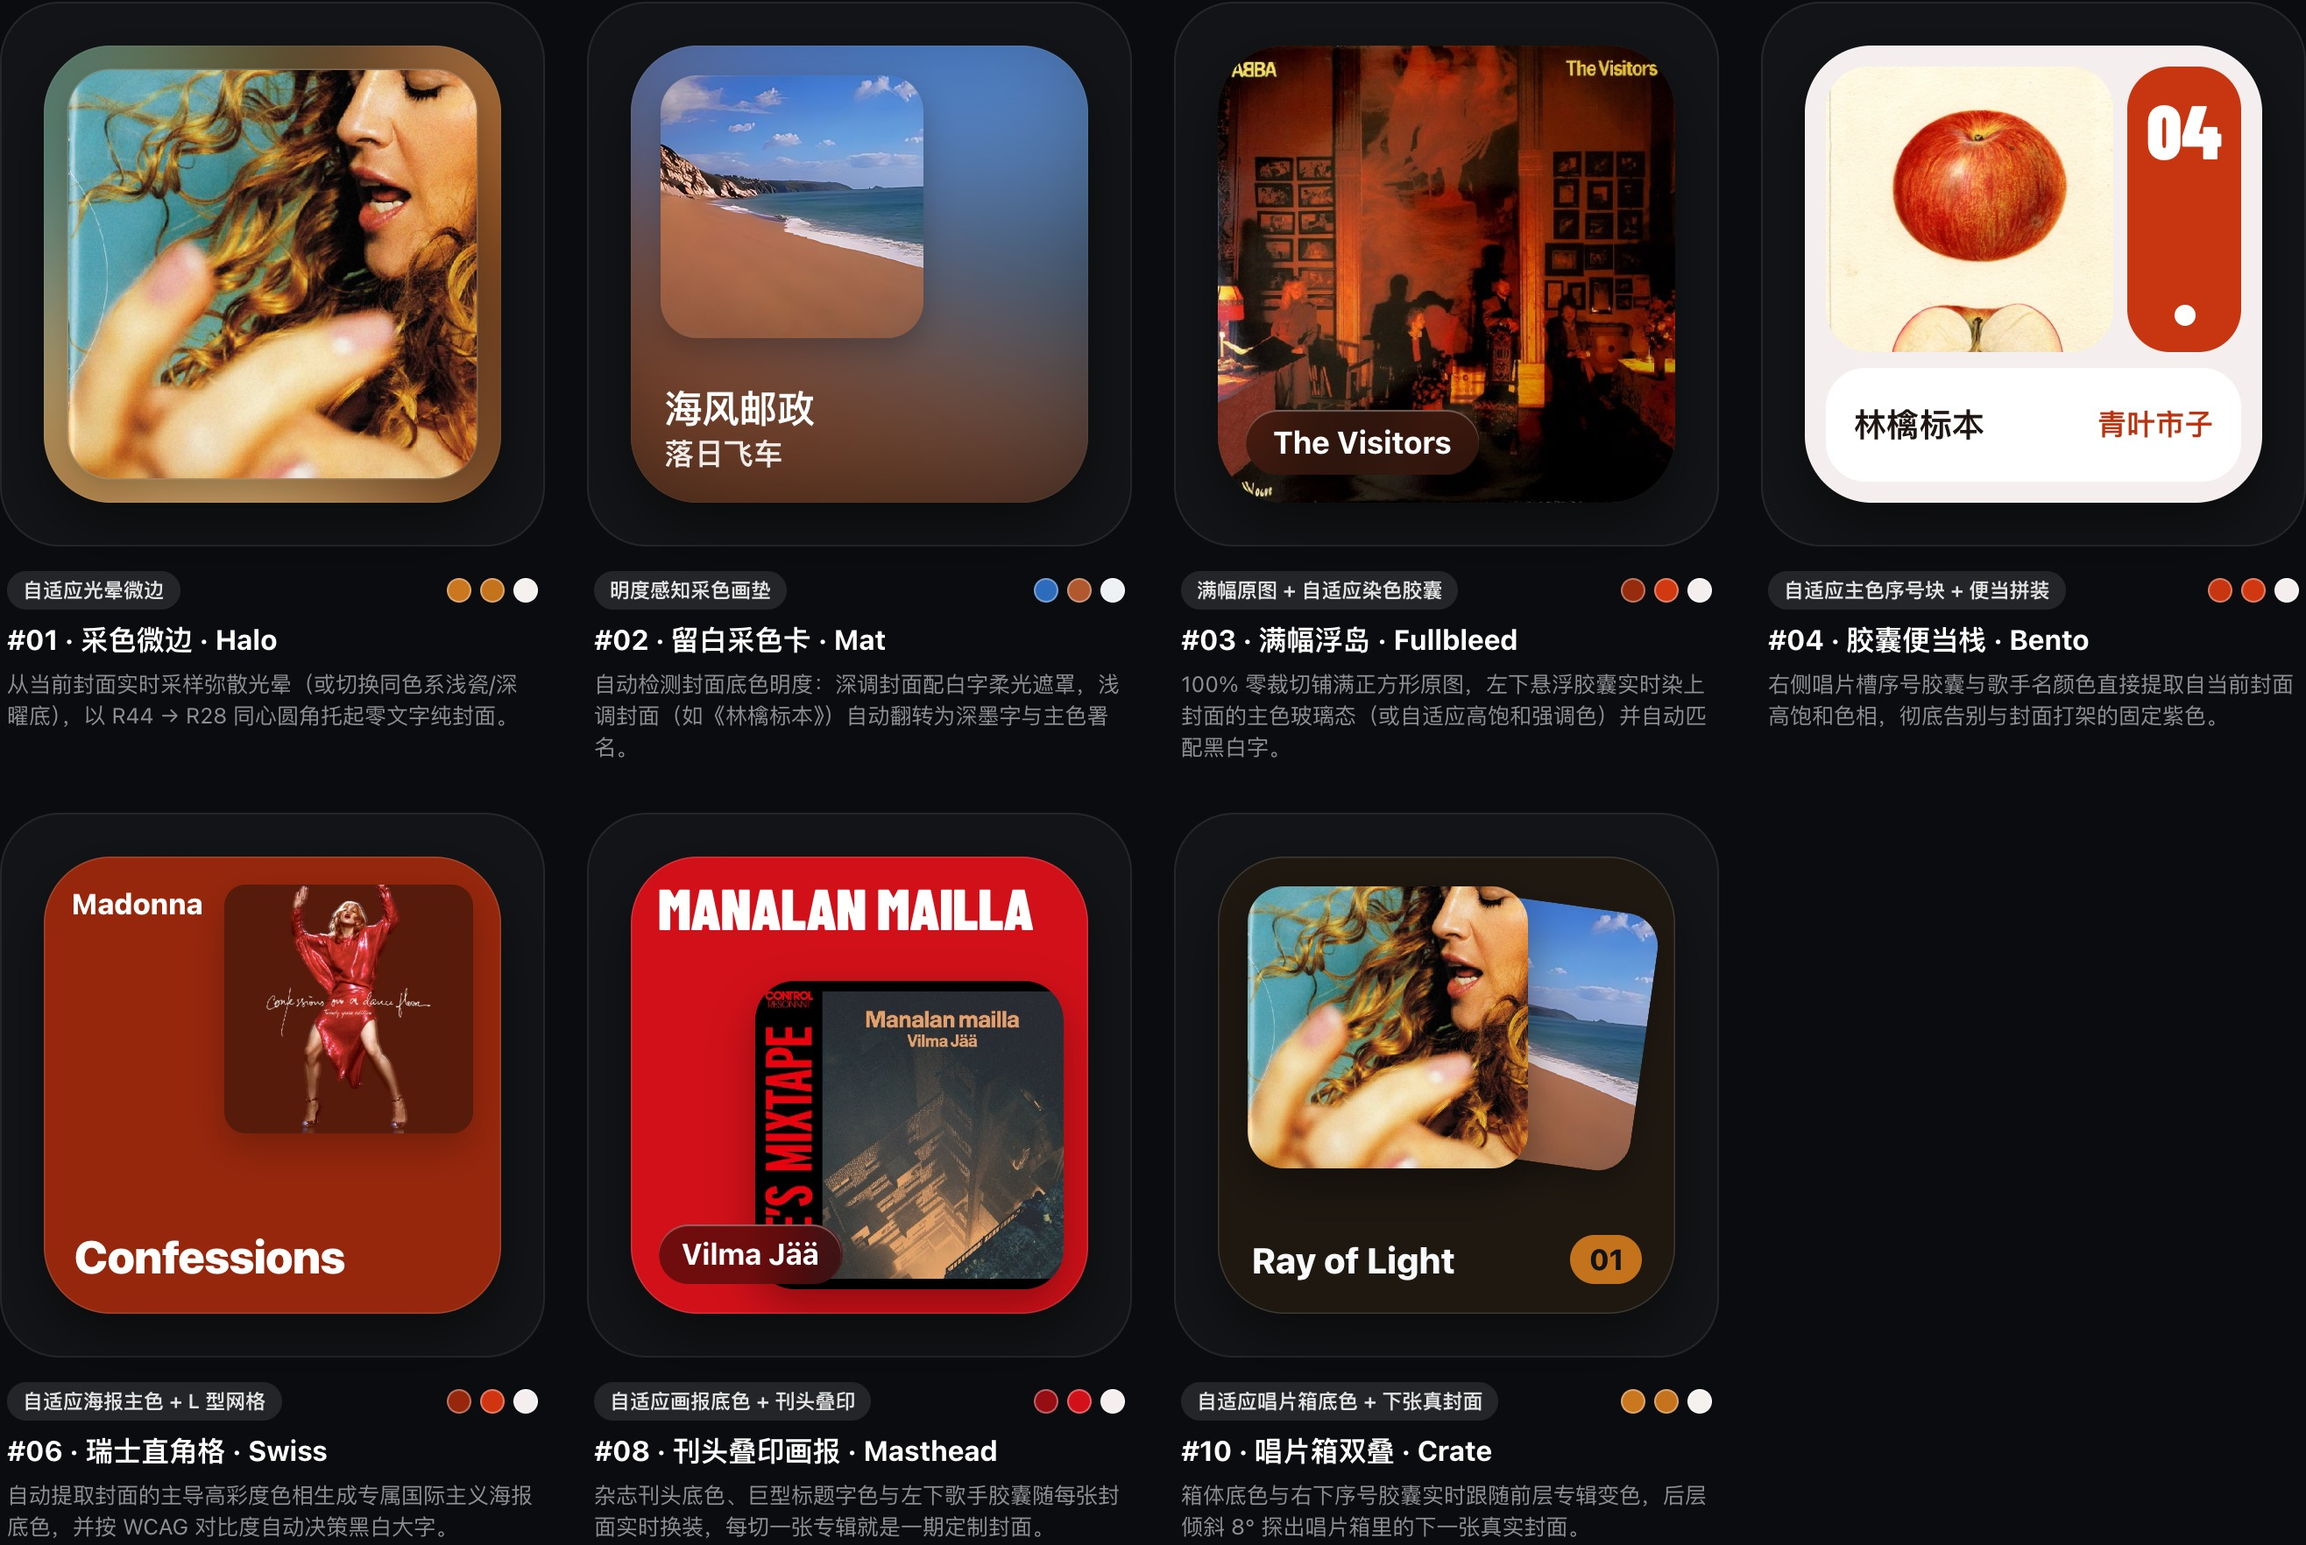
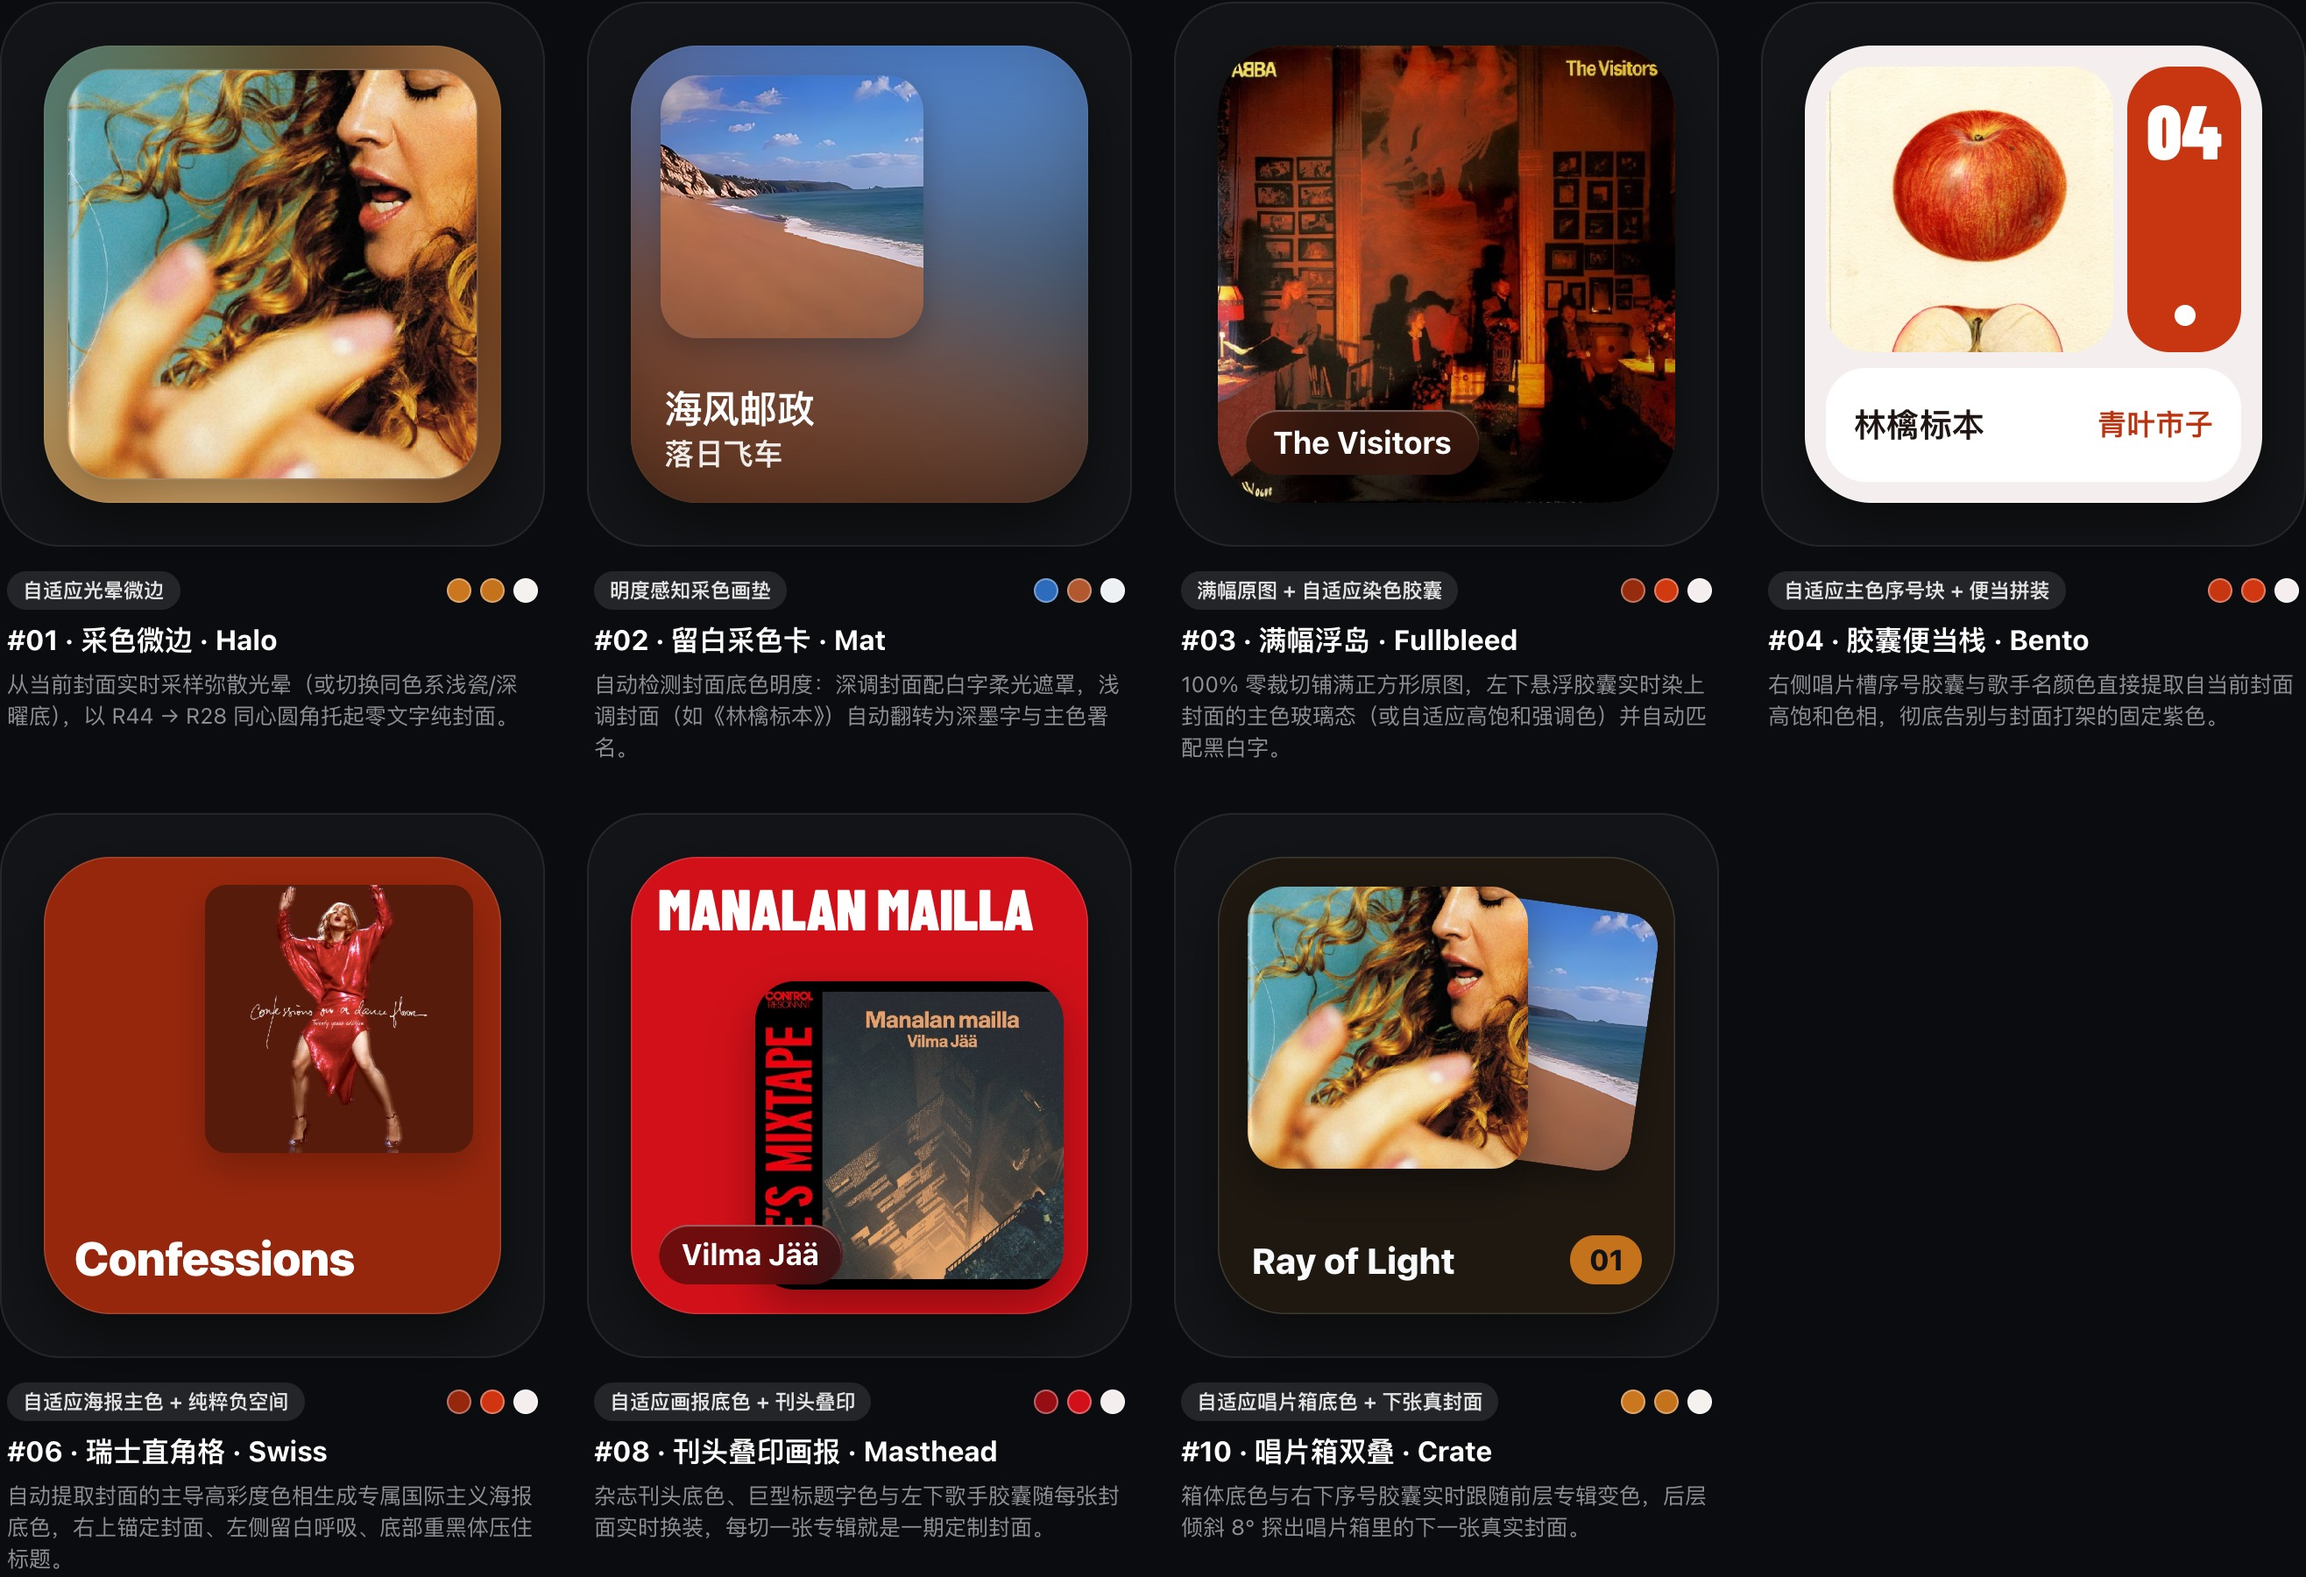
Remove artist label from #06 Swiss album template for cleaner negative space

diff --git a/wave2-albums/templates.js b/wave2-albums/templates.js
@@ -198,26 +198,23 @@
       id: 'album-swiss',
       originNo: '06',
       name: '瑞士直角格 · Swiss',
-      tag: '自适应海报主色 + L 型网格',
-      desc: '自动提取封面的主导高彩度色相生成专属国际主义海报底色，并按 WCAG 对比度自动决策黑白大字。',
+      tag: '自适应海报主色 + 纯粹负空间',
+      desc: '自动提取封面的主导高彩度色相生成专属国际主义海报底色，右上锚定封面、左侧留白呼吸、底部重黑体压住标题。',
       render(a, next, pal, toneMode, wide) {
         const bg = toneMode === 'light' ? pal.lightSurface : (toneMode === 'dark' ? pal.darkSurface : pal.posterBg);
         const ink = toneMode === 'light' ? pal.lightInk : (toneMode === 'dark' ? pal.darkInk : pal.posterInk);
-        const artistInk = toneMode === 'light' ? pal.lightTag : (toneMode === 'dark' ? pal.darkTag : ink);
 
         if (wide) {
           return `
             <div class="al-face" style="background:${bg};color:${ink}">
               <img class="al-img-sq" src="${a.cover}" alt="${esc(a.title)}"
-                style="position:absolute;right:calc(14 * var(--u));top:calc(16 * var(--u));width:calc(118 * var(--u));height:calc(118 * var(--u));border-radius:calc(12 * var(--u));box-shadow:0 calc(8 * var(--u)) calc(20 * var(--u)) rgba(0,0,0,0.22);z-index:2"/>
-              <div style="position:absolute;left:calc(18 * var(--u));top:calc(16 * var(--u));width:calc(142 * var(--u));font-size:calc(19 * var(--u));font-weight:800;color:${artistInk};white-space:nowrap;overflow:hidden;text-overflow:ellipsis">${esc(a.artist)}</div>
-              <div style="position:absolute;left:calc(18 * var(--u));bottom:calc(16 * var(--u));width:calc(142 * var(--u));font-size:calc(21.5 * var(--u));font-weight:900;line-height:1.12;display:-webkit-box;-webkit-line-clamp:2;-webkit-box-orient:vertical;overflow:hidden">${esc(a.title)}</div>
+                style="position:absolute;right:calc(14 * var(--u));top:calc(14 * var(--u));width:calc(122 * var(--u));height:calc(122 * var(--u));border-radius:calc(12 * var(--u));box-shadow:0 calc(8 * var(--u)) calc(20 * var(--u)) rgba(0,0,0,0.22);z-index:2"/>
+              <div style="position:absolute;left:calc(20 * var(--u));bottom:calc(18 * var(--u));width:calc(140 * var(--u));font-size:calc(23 * var(--u));font-weight:900;line-height:1.12;letter-spacing:calc(-0.4 * var(--u));display:-webkit-box;-webkit-line-clamp:2;-webkit-box-orient:vertical;overflow:hidden">${esc(a.title)}</div>
               <button type="button" class="al-hit" data-id="album-swiss" aria-label="切换专辑"></button>
             </div>`;
         }
         return `
           <div class="al-face" style="background:${bg};color:${ink}">
-            <div class="al-swiss-artist" style="color:${artistInk}">${esc(a.artist)}</div>
             <img class="al-img-sq al-swiss-cover" src="${a.cover}" alt="${esc(a.title)}"/>
             <div class="al-swiss-title">${esc(a.title)}</div>
             <button type="button" class="al-hit" data-id="album-swiss" aria-label="切换专辑"></button>

diff --git a/wave2-albums/styles.css b/wave2-albums/styles.css
@@ -453,28 +453,11 @@ body.mode-wide .al-face {
   position: absolute;
   right: calc(18 * var(--u));
   top: calc(18 * var(--u));
-  width: calc(164 * var(--u));
-  height: calc(164 * var(--u));
+  width: calc(176 * var(--u));
+  height: calc(176 * var(--u));
   border-radius: calc(14 * var(--u));
   box-shadow: 0 calc(10 * var(--u)) calc(24 * var(--u)) rgba(0, 0, 0, 0.22);
   z-index: 2;
-}
-
-.al-swiss-artist {
-  position: absolute;
-  left: calc(18 * var(--u));
-  top: calc(20 * var(--u));
-  width: calc(96 * var(--u));
-  font-size: calc(19 * var(--u));
-  font-weight: 800;
-  line-height: 1.22;
-  display: -webkit-box;
-  -webkit-line-clamp: 3;
-  -webkit-box-orient: vertical;
-  overflow: hidden;
-  overflow-wrap: normal;
-  word-break: normal;
-  z-index: 3;
 }
 
 .al-swiss-title {
@@ -482,7 +465,7 @@ body.mode-wide .al-face {
   left: calc(20 * var(--u));
   right: calc(20 * var(--u));
   bottom: calc(20 * var(--u));
-  font-size: calc(30 * var(--u));
+  font-size: calc(31 * var(--u));
   font-weight: 900;
   line-height: 1.12;
   letter-spacing: calc(-0.6 * var(--u));
